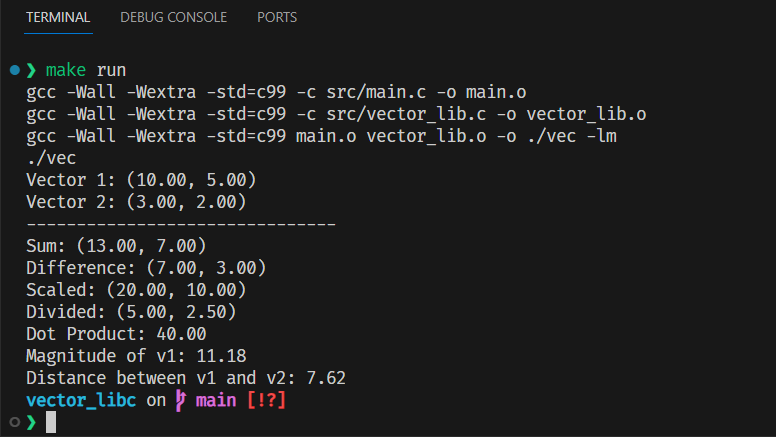
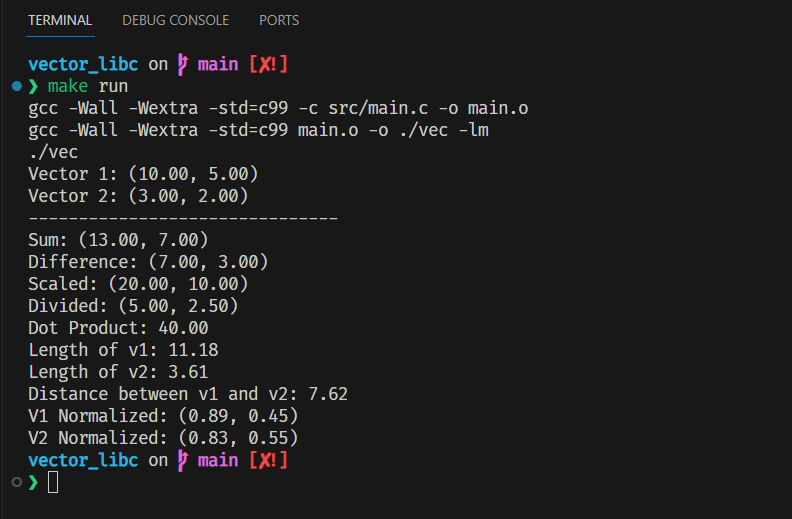
updates.

Changed region(s): [[0.0, 0.0297, 0.8351, 1.0], [0.1546, 0.0297, 0.4021, 0.0595]]

diff --git a/src/vector_lib.h b/src/vector_lib.h
@@ -1,6 +1,8 @@
 #ifndef VECTOR_LIB
 #define VECTOR_LIB
 
+#include <math.h>
+
 typedef struct Vec2D {
     double x;
     double y;
@@ -8,38 +10,97 @@ typedef struct Vec2D {
 
 // Adds two 2D vectors
 // v = ((x + x), (y + y))
-Vec2D vector_add(Vec2D v1, Vec2D v2);
+Vec2D vector_add(const Vec2D v1, const Vec2D v2);
 
 // Subtracts two 2D vectors
 // v = ((x - x), (y - y))
-Vec2D vector_subtract(Vec2D v1, Vec2D v2);
+Vec2D vector_subtract(const Vec2D v1, const Vec2D v2);
 
 // Multiples a vector by a provided scalar/value:
-// v = ((x * s), (y * s)) 
-Vec2D vector_multiply(Vec2D v, double value);
+// v = ((x * value), (y * value)) 
+Vec2D vector_multiply(const Vec2D v, double value);
 
 // Divides a vector by a provided scalar/value:
-// v = ((x / s), (y / s)) 
-Vec2D vector_divide(Vec2D v, double value);
+// v = ((x / value), (y / value)) 
+Vec2D vector_divide(const Vec2D v, double value);
 
 // Gets the magnitude(Length) of a vector
 // applying the Pythagorean theorem, which states that 
 // in a right-angled triangle, the square of the length of 
 // the hypotenuse (the side opposite the right angle) is 
 // equal to the sum of the squares of the lengths of the other two sides.
-// v = sqrt(v.x * v.x + v.y * v.y); 
-double vector_magnitude(Vec2D v);
+// v = sqrt((v.x * v.x) + (v.y * v.y)); 
+double vector_length(const Vec2D v);
 
 // Get the dot product of two Vectors:
 // Multiple each dimension and sum their values
 // v = ((x * x) + (y * y));
-double vector_dot_product(Vec2D v1, Vec2D v2);
+double vector_dot_product(const Vec2D v1, const Vec2D v2);
 
 // Get the distance between two Vectors:
 // We get the difference as in how much space between the 2 vectors first.
 // That would be the distance between the two as a Vector Or... 
-// the displacement from v2 to v1. It's essentially the vector required to move from v2 to v1.
+// the displacement from b to a. It's essentially the vector required to move from b to a.
 // We can then use the magnitude function to get that distance as a scalar.
-double vector_distance(Vec2D v1, Vec2D v2);
+double vector_distance(const Vec2D v1, const Vec2D v2);
+
+// Normalize a vector:
+// First get the length of the vector argument with vector_length.
+// Then we divide each component of the input by its length from
+// the divide function. Scaling the vector so that its length becomes 1.
+Vec2D vector_normalize(const Vec2D v1);
+
+
+Vec2D vector_add(const Vec2D v1, const Vec2D v2) {
+    Vec2D out = { (v1.x + v2.x), (v1.y + v2.y) }; 
+    return out;
+}
+
+Vec2D vector_subtract(const Vec2D v1, const Vec2D v2) {
+    Vec2D out = { (v1.x - v2.x), (v1.y - v2.y) }; 
+    return out;
+}
+
+Vec2D vector_multiply(const Vec2D v, double value) {
+    Vec2D out = { (v.x * value), (v.y * value) }; 
+    return out;
+}
+
+Vec2D vector_divide(const Vec2D v, double value) {
+    Vec2D out;    
+
+    if(value != 0) {
+        out.x = v.x / value;
+        out.y = v.y / value;
+    } else {
+        // division by zero issue, returning original
+        out = v;
+    }
+
+    return out;
+}
+
+double vector_length(const Vec2D v) {
+    return sqrt((v.x * v.x) + (v.y * v.y));
+}
+
+double vector_dot_product(const Vec2D v1, const Vec2D v2) {
+    return ((v1.x * v2.x) + (v1.y * v2.y));
+}
+
+double vector_distance(const Vec2D v1, const Vec2D v2) {
+    Vec2D diff = vector_subtract(v1, v2);
+    return vector_length(diff);
+}
+
+Vec2D vector_normalize(const Vec2D v1) {
+    double mag = vector_length(v1);
+    if (mag != 0) {
+        return vector_divide(v1, mag);
+    } else {
+        // division by zero issue, returning original
+        return v1;
+    }
+}
 
 #endif /* VECTOR_LIB */

diff --git a/src/main.c b/src/main.c
@@ -2,8 +2,8 @@
 #include "vector_lib.h"
 
 int main() {
-    Vec2D v1 = {10.0, 5.0};
-    Vec2D v2 = {3.0, 2.0};
+    const Vec2D v1 = {10.0, 5.0};
+    const Vec2D v2 = {3.0, 2.0};
 
     printf("Vector 1: (%.2f, %.2f)\n", v1.x, v1.y);
     printf("Vector 2: (%.2f, %.2f)\n", v2.x, v2.y);
@@ -29,13 +29,21 @@ int main() {
     double dot_prod = vector_dot_product(v1, v2);
     printf("Dot Product: %.2f\n", dot_prod);
 
-    // Magnitude
-    double mag_v1 = vector_magnitude(v1);
-    printf("Magnitude of v1: %.2f\n", mag_v1);
+    // Length
+    double length_v1 = vector_length(v1);
+    printf("Length of v1: %.2f\n", length_v1);
+    double length_v2 = vector_length(v2);
+    printf("Length of v2: %.2f\n", length_v2);
 
     // Distance between v1 and v2
     double distance_v1_v2 = vector_distance(v1, v2);
     printf("Distance between v1 and v2: %.2f\n", distance_v1_v2);
+
+    // Normalize
+    Vec2D normalized_v1 = vector_normalize(v1);
+    printf("V1 Normalized: (%.2f, %.2f)\n", normalized_v1.x, normalized_v1.y);
+    Vec2D normalized_v2 = vector_normalize(v2);
+    printf("V2 Normalized: (%.2f, %.2f)\n", normalized_v2.x, normalized_v2.y);
 
     return 0;
 }

diff --git a/README.md b/README.md
@@ -10,8 +10,9 @@ With the respective arithmetic being:
 
 And functions for:
 * The dot product
-* The magnitude
+* The length (magnitude)
 * Distance between two vectors
+* Normalizing a Vector
 
 To run the project (you need gcc, otherwise you need to update the makefile to use your compiler and flags etc):
 
